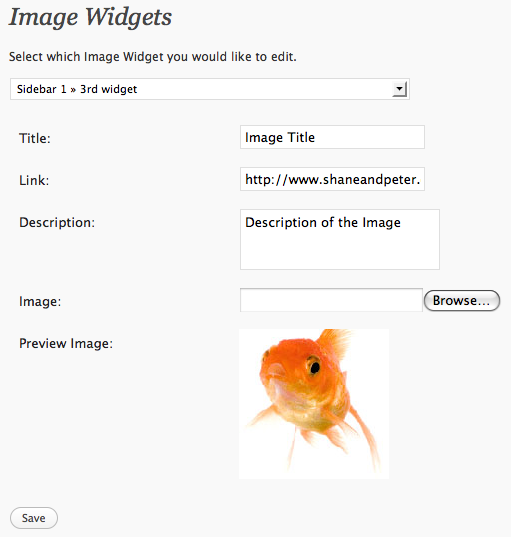
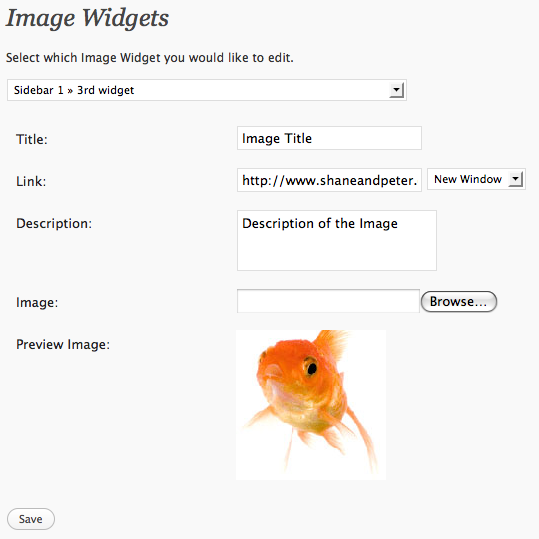
Added link target
git-svn-id: https://plugins.svn.wordpress.org/image-widget/trunk@98769 b8457f37-d9ea-0310-8a92-e5e31aec5664

diff --git a/image-widget.php b/image-widget.php
@@ -5,7 +5,7 @@ Plugin Name: Image Widget
 Plugin URI: http://www.shaneandpeter.com/wordpress
 Description: This widget accepts a title, a link and an image and displays them.  The admin panel is separated from the widget to offer independant control
 Author: Shane and Peter, Inc. [Contributors: Kevin Miller, Nick Ohrn]
-Version: 2.0
+Version: 2.1
 Author URI: http://www.shaneandpeter.com
 */
 
@@ -24,6 +24,7 @@ class sp_image_widget {
 		'default_widget_options' => array(
 			'title' => '',
 			'link' => '',
+			'linktarget' => '',
 			'description' => '',
 			'image' => ''
 		),
@@ -102,6 +103,7 @@ class sp_image_widget {
 
 
 		$link = !empty($widget_options['link']);
+		$linktarget = !empty($widget_options['linktarget']);
 		
  		echo '<div id="'.$this->options['control_options']['id_base'].'-'.$number.'" class="widget '.$this->options['widget_options']['classname'].'">';
 		?>
@@ -119,14 +121,14 @@ class sp_image_widget {
 				
 				<?php if (!empty($widget_options['image'])): ?>
 
-  				 <?= ($link ? '<a class="' . $this->options['widget_options']['classname'] . '-image-link" href="' . $widget_options['link'] . '">'   : '') . '<img class="' . $this->options['widget_options']['classname'] . '-image" src="' . $widget_options['image'] . '" alt="image widget" />' . ($link ? '</a>' : '') ?>
+  				 <?= ($link ? '<a class="' . $this->options['widget_options']['classname'] . '-image-link" href="' . $widget_options['link'] . '" target="' . $widget_options['linktarget'] . '">'   : '') . '<img class="' . $this->options['widget_options']['classname'] . '-image" src="' . $widget_options['image'] . '" alt="image widget" />' . ($link ? '</a>' : '') ?>
 						
 				<?php endif; ?>
 				
 				<?php if (!empty($widget_options['description'])): ?>
 					
 					<p class="<?= $this->options['widget_options']['classname'] ?>-description" >
-					<?= ($link ? '<a class="' . $this->options['widget_options']['classname'] . '-image-link-p" href="' . $widget_options['link'] . '">' : '')?>
+					<?= ($link ? '<a class="' . $this->options['widget_options']['classname'] . '-image-link-p" href="' . $widget_options['link'] . '" target="' . $widget_options['linktarget'] . '">' : '')?>
 						<?= html_entity_decode($widget_options['description']) ?>
 					<?= ($link ? '</a>' : '') ?></p>
 						
@@ -255,6 +257,8 @@ class sp_image_widget {
 					$new_options['title'] = htmlentities(stripslashes($new_options['title']));
 
 					$new_options['link'] = htmlentities(stripslashes($_POST[$this->options['control_options']['id_base'] . '-link']));
+
+					$new_options['linktarget'] = htmlentities(stripslashes($_POST[$this->options['control_options']['id_base'] . '-linktarget']));
 
 					$new_options['description'] = $_POST[$this->options['control_options']['id_base'] . '-description'];
 					$new_options['description'] = ereg_replace("[^A-Za-z0-9 _!-@#$%^&*()_+={}\":<>?/.,;'|\\~`]", "", $new_options['description']);
@@ -424,6 +428,10 @@ class sp_image_widget {
 								</th>
 								<td>
 									<input type="text" id="<?= $this->options['control_options']['id_base'] ?>[<?= $number ?>][link]" name="<?= $this->options['control_options']['id_base'] ?>-link" value="<?= $form_options['link'] ?>" >
+									<select id="<?= $this->options['control_options']['id_base'] ?>[<?= $number ?>][linktarget]" name="<?= $this->options['control_options']['id_base'] ?>-linktarget">
+										<option value="_self"<?php if ($form_options['linktarget']=="_self") { echo " selected"; } ?>>Same Window</option>
+										<option value="_blank"<?php if ($form_options['linktarget']=="_blank") { echo " selected"; } ?>>New Window</option>
+									</select>
 								</td>
 							</tr>
 					
